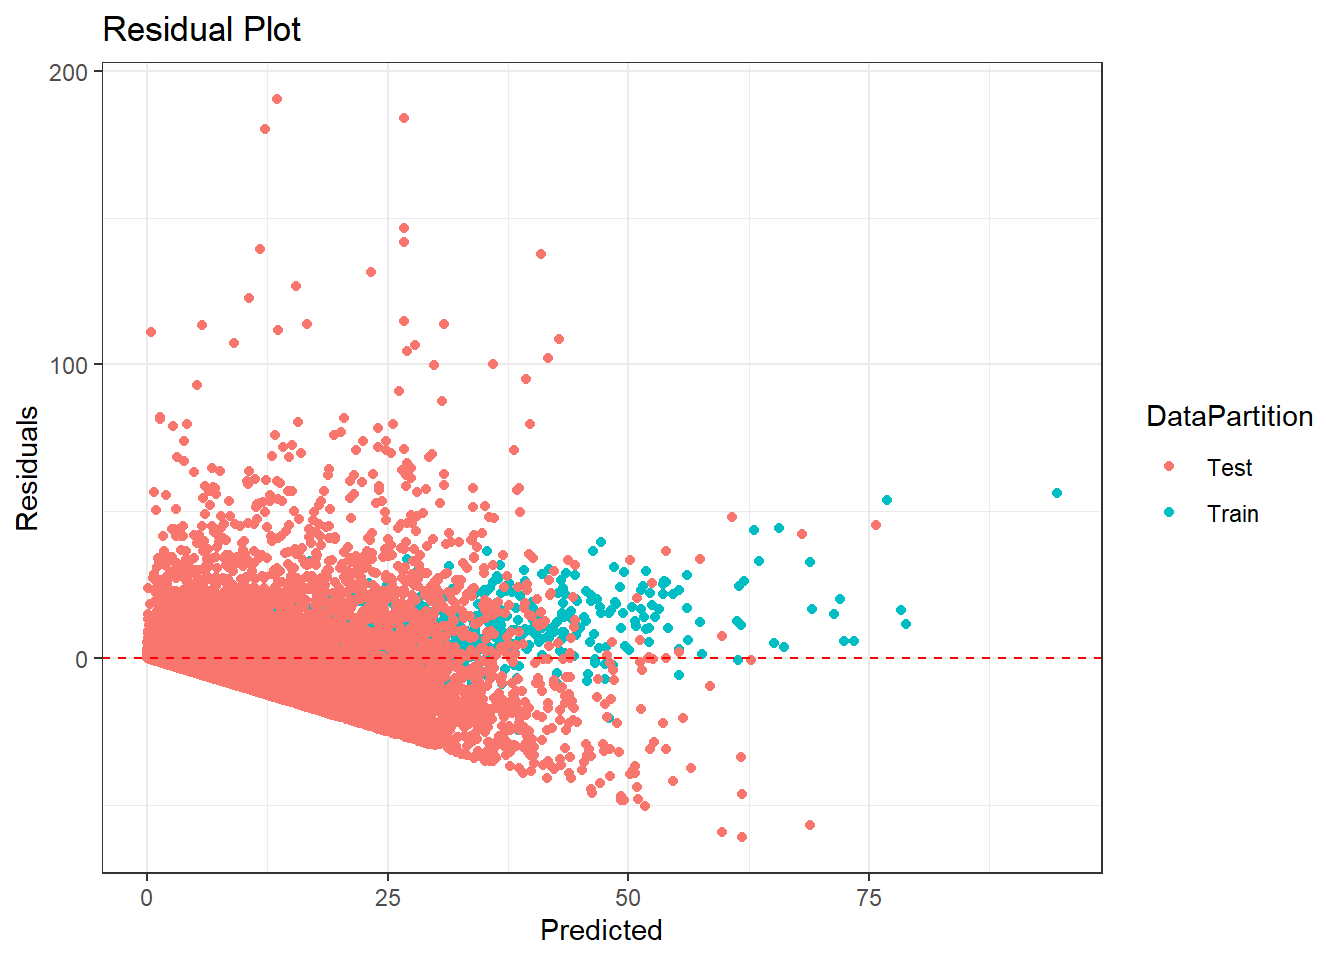
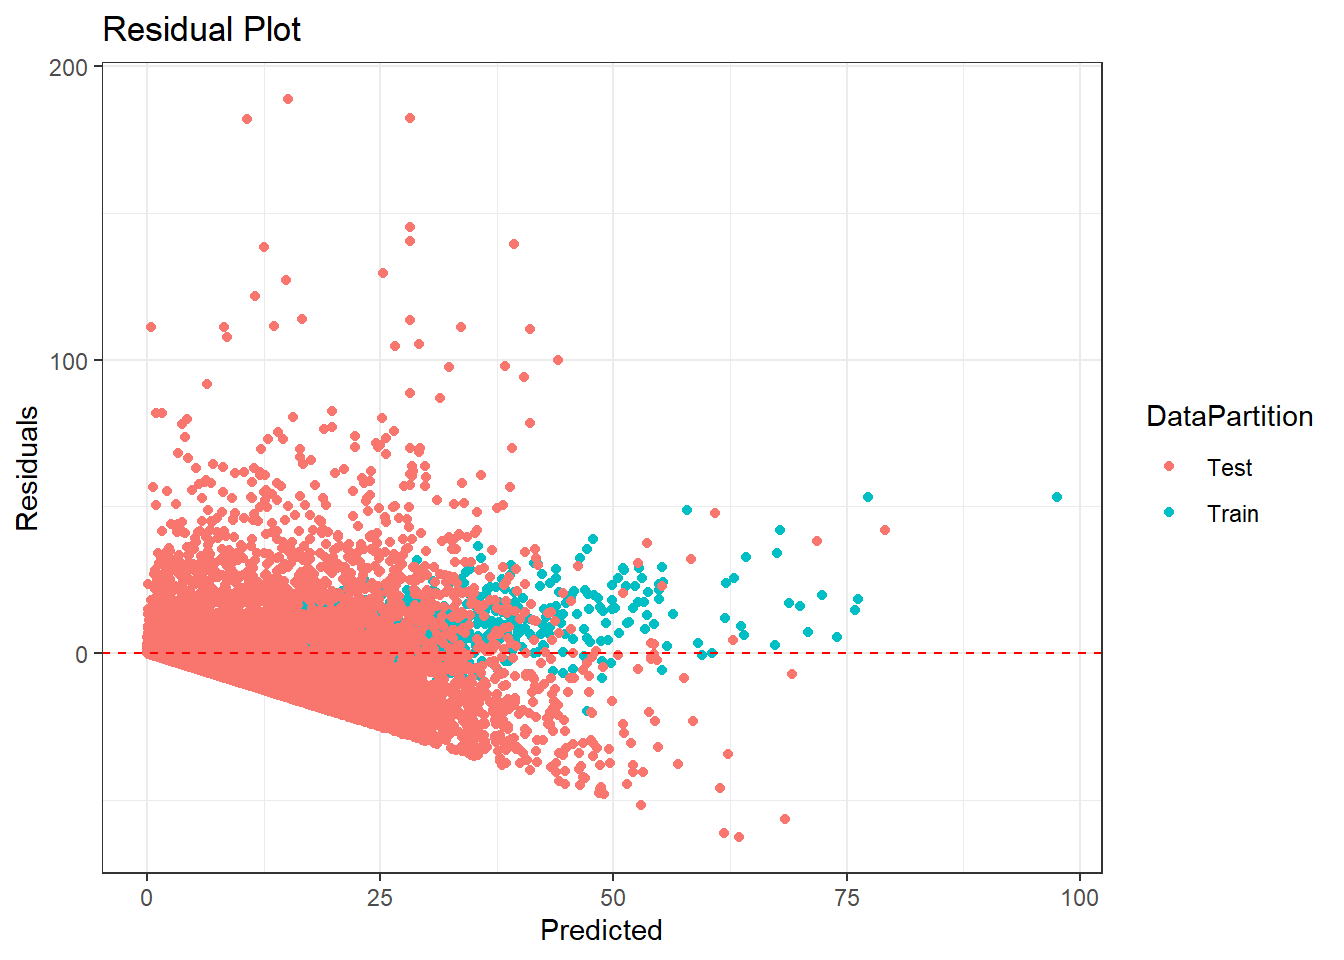
index

diff --git a/_site/prototyping/forecast.html b/_site/prototyping/forecast.html
@@ -144,6 +144,10 @@ pre > code.sourceCode > span > a:first-child::before { text-decoration: underlin
     <a class="dropdown-item" href="../prototyping/clustering.html" rel="" target="">
  <span class="dropdown-text">Clustering Analysis</span></a>
   </li>  
+        <li>
+    <a class="dropdown-item" href="../prototyping/Project.html" rel="" target="">
+ <span class="dropdown-text">Whole Project</span></a>
+  </li>  
     </ul>
   </li>
   <li class="nav-item dropdown ">
@@ -162,7 +166,7 @@ pre > code.sourceCode > span > a:first-child::before { text-decoration: underlin
     </ul>
   </li>
   <li class="nav-item">
-    <a class="nav-link" href="../poster/poster.html" rel="" target="">
+    <a class="nav-link" href="../poster/poster.png" rel="" target="">
  <span class="menu-text">Project Overview</span></a>
   </li>  
 </ul>
@@ -303,7 +307,7 @@ logical.return = TRUE, : there is no package called 'ggdendrosf'</code></pre>
 <pre><code>package 'tmap' successfully unpacked and MD5 sums checked
 
 The downloaded binary packages are in
-    C:\Users\Yizao\AppData\Local\Temp\RtmpqspP7W\downloaded_packages</code></pre>
+    C:\Users\Yizao\AppData\Local\Temp\Rtmp2nHjhI\downloaded_packages</code></pre>
 </div>
 <div class="cell-output cell-output-stderr">
 <pre><code>
@@ -392,18 +396,18 @@ Call:
                      Number of trees: 500
 No. of variables tried at each split: 3
 
-          Mean of squared residuals: 77.26672
-                    % Var explained: 44.47</code></pre>
+          Mean of squared residuals: 76.90388
+                    % Var explained: 44.73</code></pre>
 </div>
 <div class="sourceCode cell-code" id="cb21"><pre class="sourceCode r code-with-copy"><code class="sourceCode r"><span id="cb21-1"><a href="#cb21-1" aria-hidden="true" tabindex="-1"></a><span class="co"># View variable importance</span></span>
 <span id="cb21-2"><a href="#cb21-2" aria-hidden="true" tabindex="-1"></a><span class="fu">importance</span>(rf_model)</span></code><button title="Copy to Clipboard" class="code-copy-button"><i class="bi"></i></button></pre></div>
 <div class="cell-output cell-output-stdout">
 <pre><code>                   %IncMSE IncNodePurity
-Month             62.29893      166419.1
-Day               37.00006      182644.6
-Mean_Temperature  43.45525      210984.5
-Max_Temperature   52.89913      215435.0
-Min_Temperature  147.56272      495058.5</code></pre>
+Month             72.82291      165434.3
+Day               39.36373      182819.4
+Mean_Temperature  45.21820      213805.4
+Max_Temperature   54.50137      213563.3
+Min_Temperature  159.01223      494601.7</code></pre>
 </div>
 </div>
 <p>The code chunk below uses&nbsp;<strong>randomForest()</strong>&nbsp;to create the model using the training dataset with the user selected model parameters.</p>
@@ -518,6 +522,7 @@ Min_Temperature  147.56272      495058.5</code></pre>
 <p><img src="forecast_files/figure-html/unnamed-chunk-8-1.png" class="img-fluid" width="672"></p>
 </div>
 </div>
+<pre><code></code></pre>
 
 
 </section>

diff --git a/_site/index.html b/_site/index.html
@@ -111,6 +111,10 @@ ul.task-list li input[type="checkbox"] {
     <a class="dropdown-item" href="./prototyping/clustering.html" rel="" target="">
  <span class="dropdown-text">Clustering Analysis</span></a>
   </li>  
+        <li>
+    <a class="dropdown-item" href="./prototyping/Project.html" rel="" target="">
+ <span class="dropdown-text">Whole Project</span></a>
+  </li>  
     </ul>
   </li>
   <li class="nav-item dropdown ">
@@ -129,7 +133,7 @@ ul.task-list li input[type="checkbox"] {
     </ul>
   </li>
   <li class="nav-item">
-    <a class="nav-link" href="./poster/poster.html" rel="" target="">
+    <a class="nav-link" href="./poster/poster.png" rel="" target="">
  <span class="menu-text">Project Overview</span></a>
   </li>  
 </ul>
